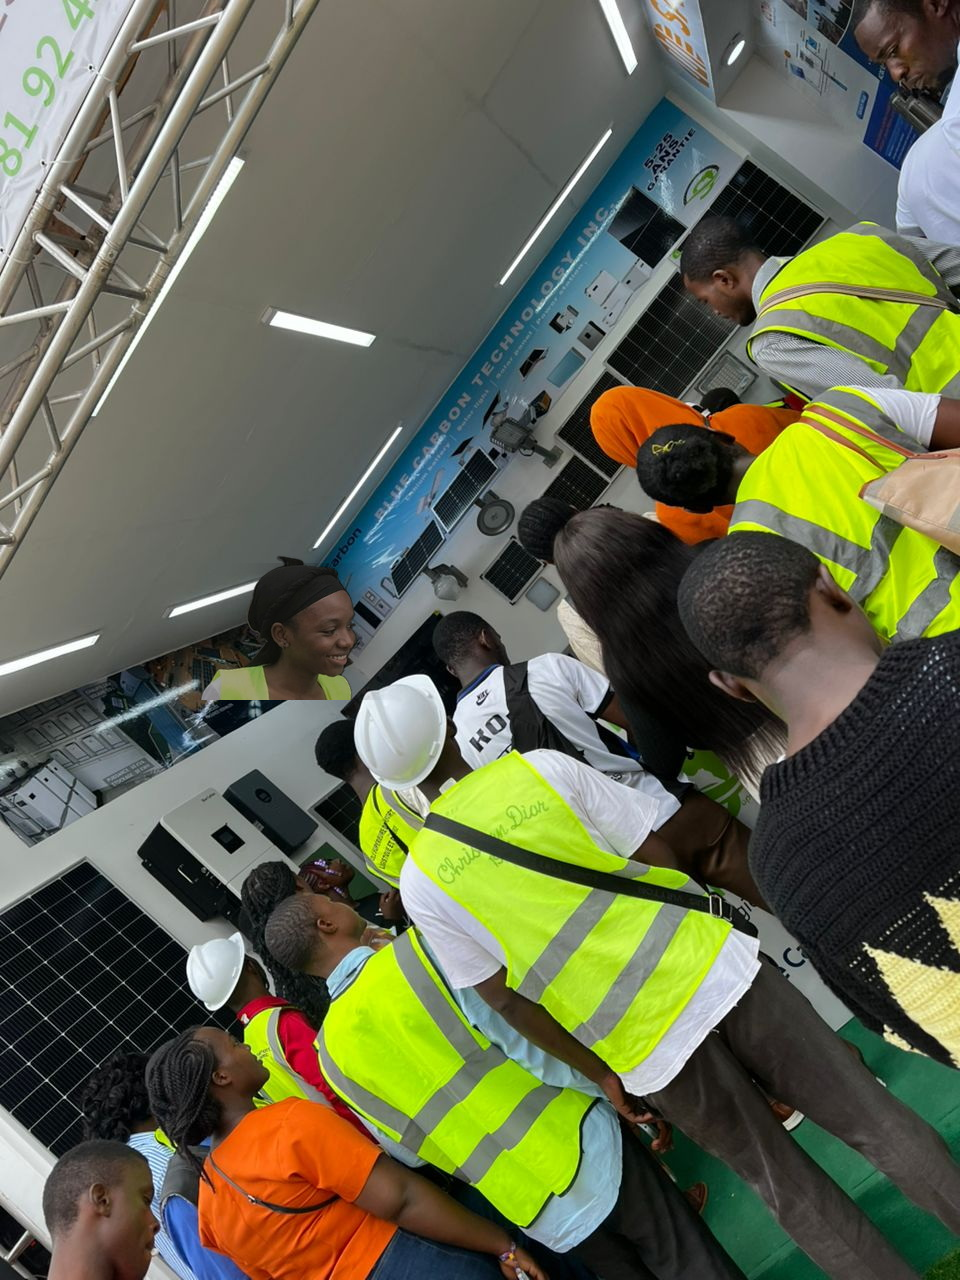
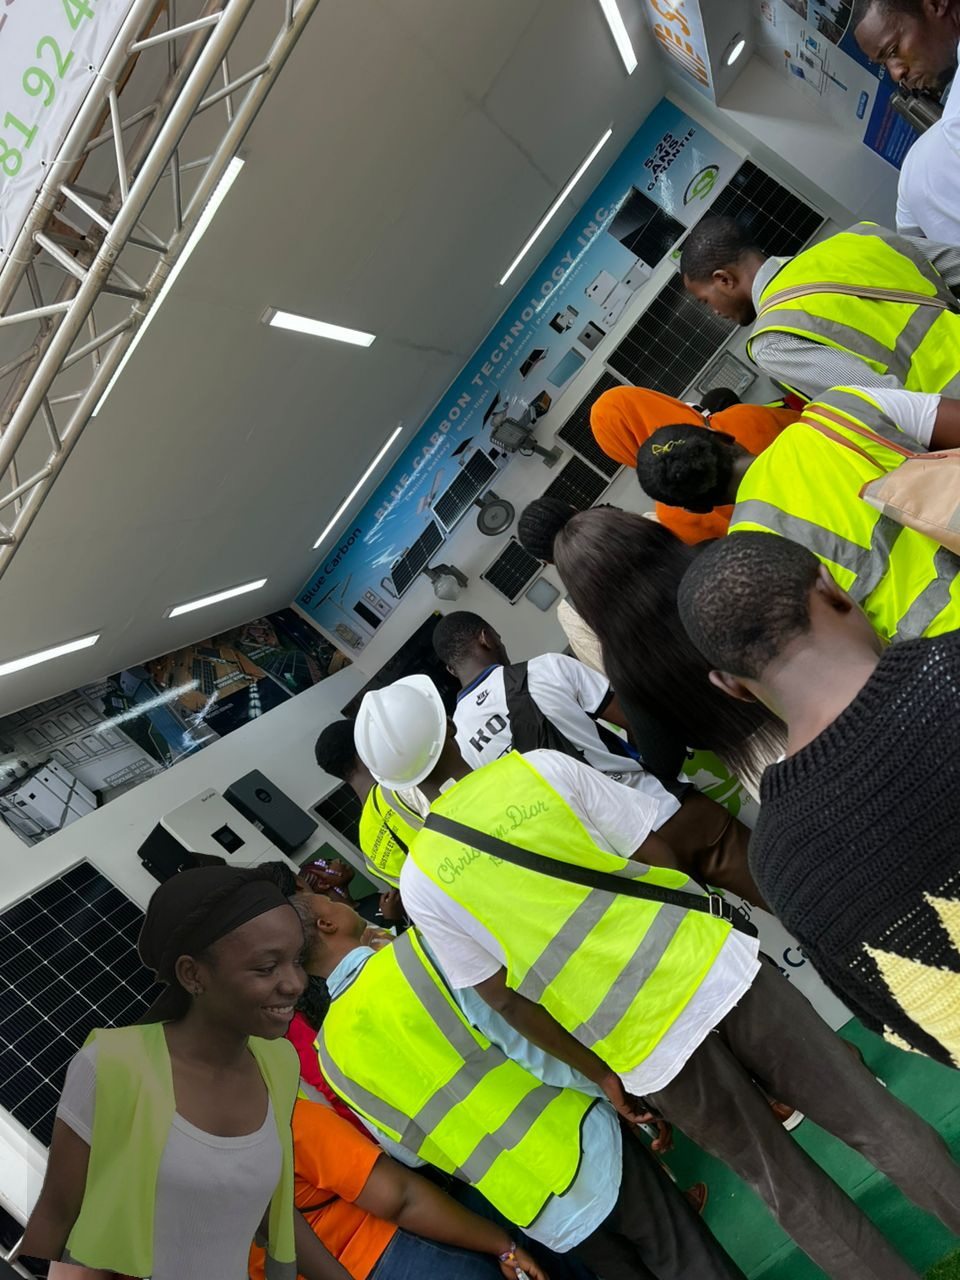
Supprimer les coupes visibles des montages

Changed region(s): [[0.0, 0.6562, 0.375, 1.0], [0.2188, 0.4375, 0.375, 0.5625]]

diff --git a/scripts/retouche_photos.py b/scripts/retouche_photos.py
@@ -59,33 +59,31 @@ TARGETS = [
     },
     {
         "name": "WhatsApp Image 2026-06-17 at 4.04.17 PM.jpeg",
-        "height": 275,
-        "x": 170,
-        "y": 555,
+        "height": 430,
+        "x": 18,
+        "y": 850,
         "angle": -11,
-        "brightness": 0.78,
-        "contrast": 0.92,
-        "color": 0.80,
-        "shadow": (6, 8, 22, 74),
-        "occlusions": [(0, 700, 520, 1280)],
+        "brightness": 0.72,
+        "contrast": 0.90,
+        "color": 0.74,
+        "shadow": (9, 12, 28, 86),
     },
     {
         "name": "WhatsApp Image 2026-06-17 at 4.16.54 PM.jpeg",
-        "height": 315,
-        "x": 190,
-        "y": 318,
+        "height": 360,
+        "x": 25,
+        "y": 450,
         "brightness": 0.78,
         "contrast": 0.91,
         "color": 0.78,
         "shadow": (7, 9, 22, 78),
-        "occlusions": [(250, 438, 670, 810)],
     },
     {
         "name": "WhatsApp Image 2026-06-17 at 4.16.54 PM(1).jpeg",
-        "height": 300,
-        "x": 35,
-        "y": 390,
-        "brightness": 0.70,
+        "height": 350,
+        "x": 25,
+        "y": 460,
+        "brightness": 0.68,
         "contrast": 0.90,
         "color": 0.76,
         "shadow": (7, 10, 24, 94),
